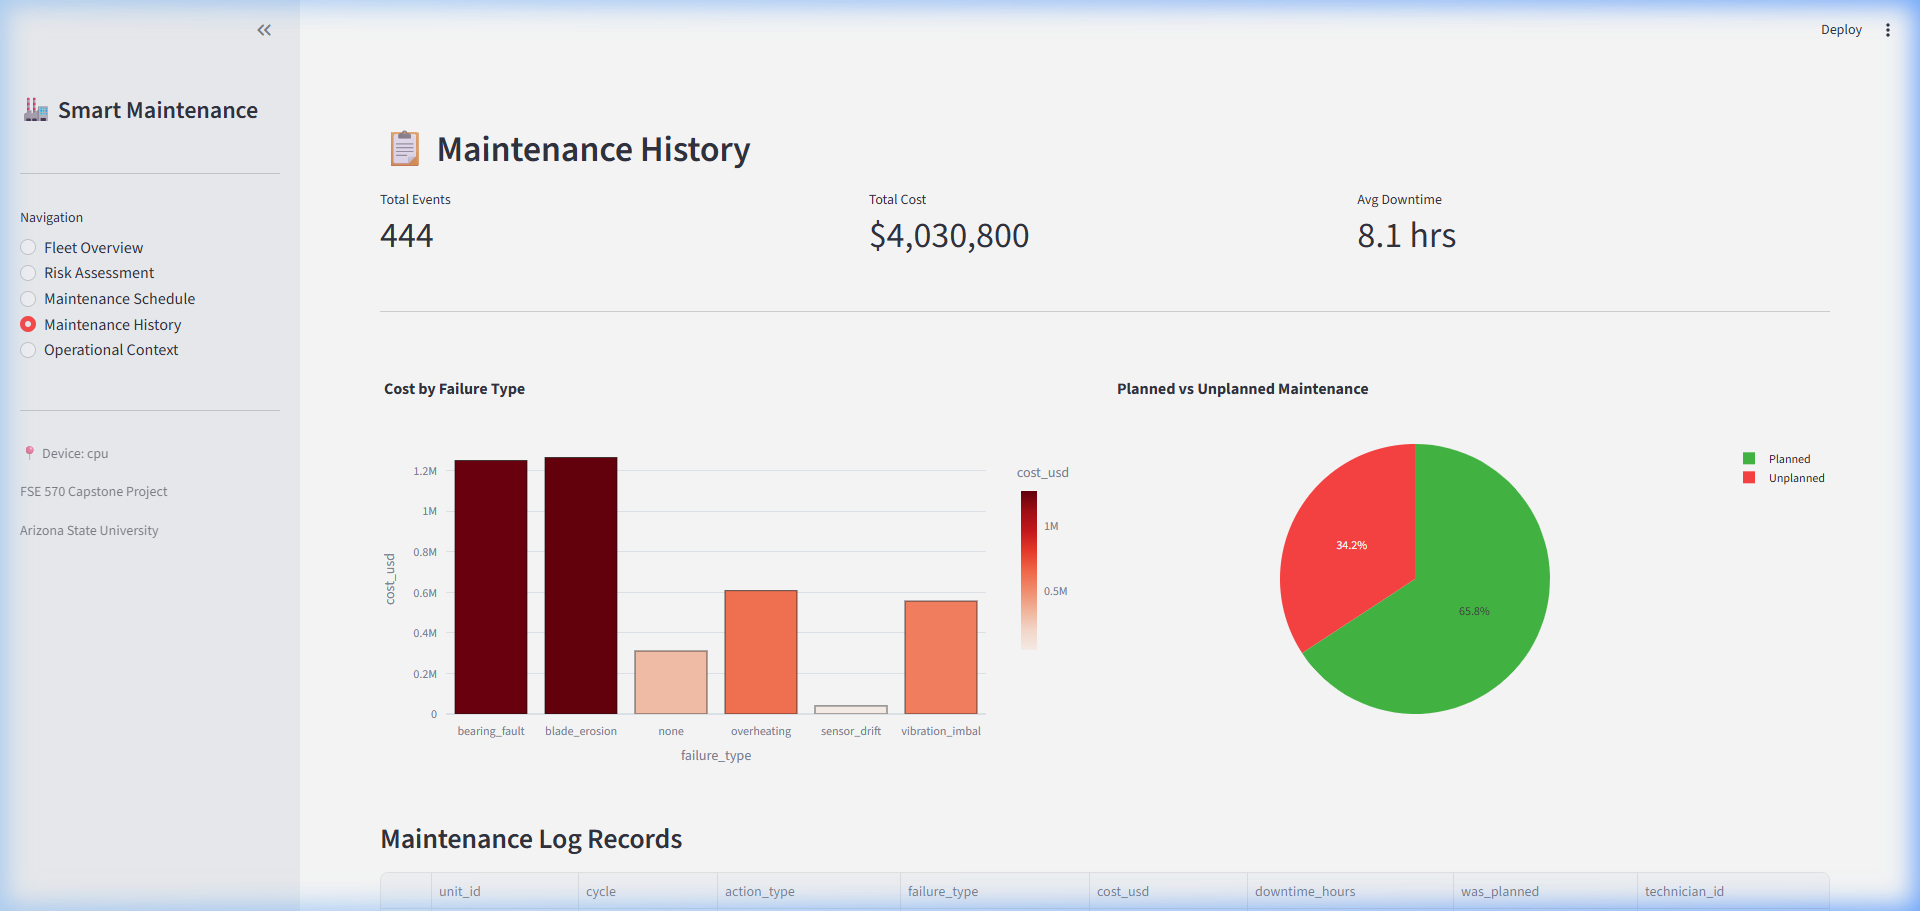
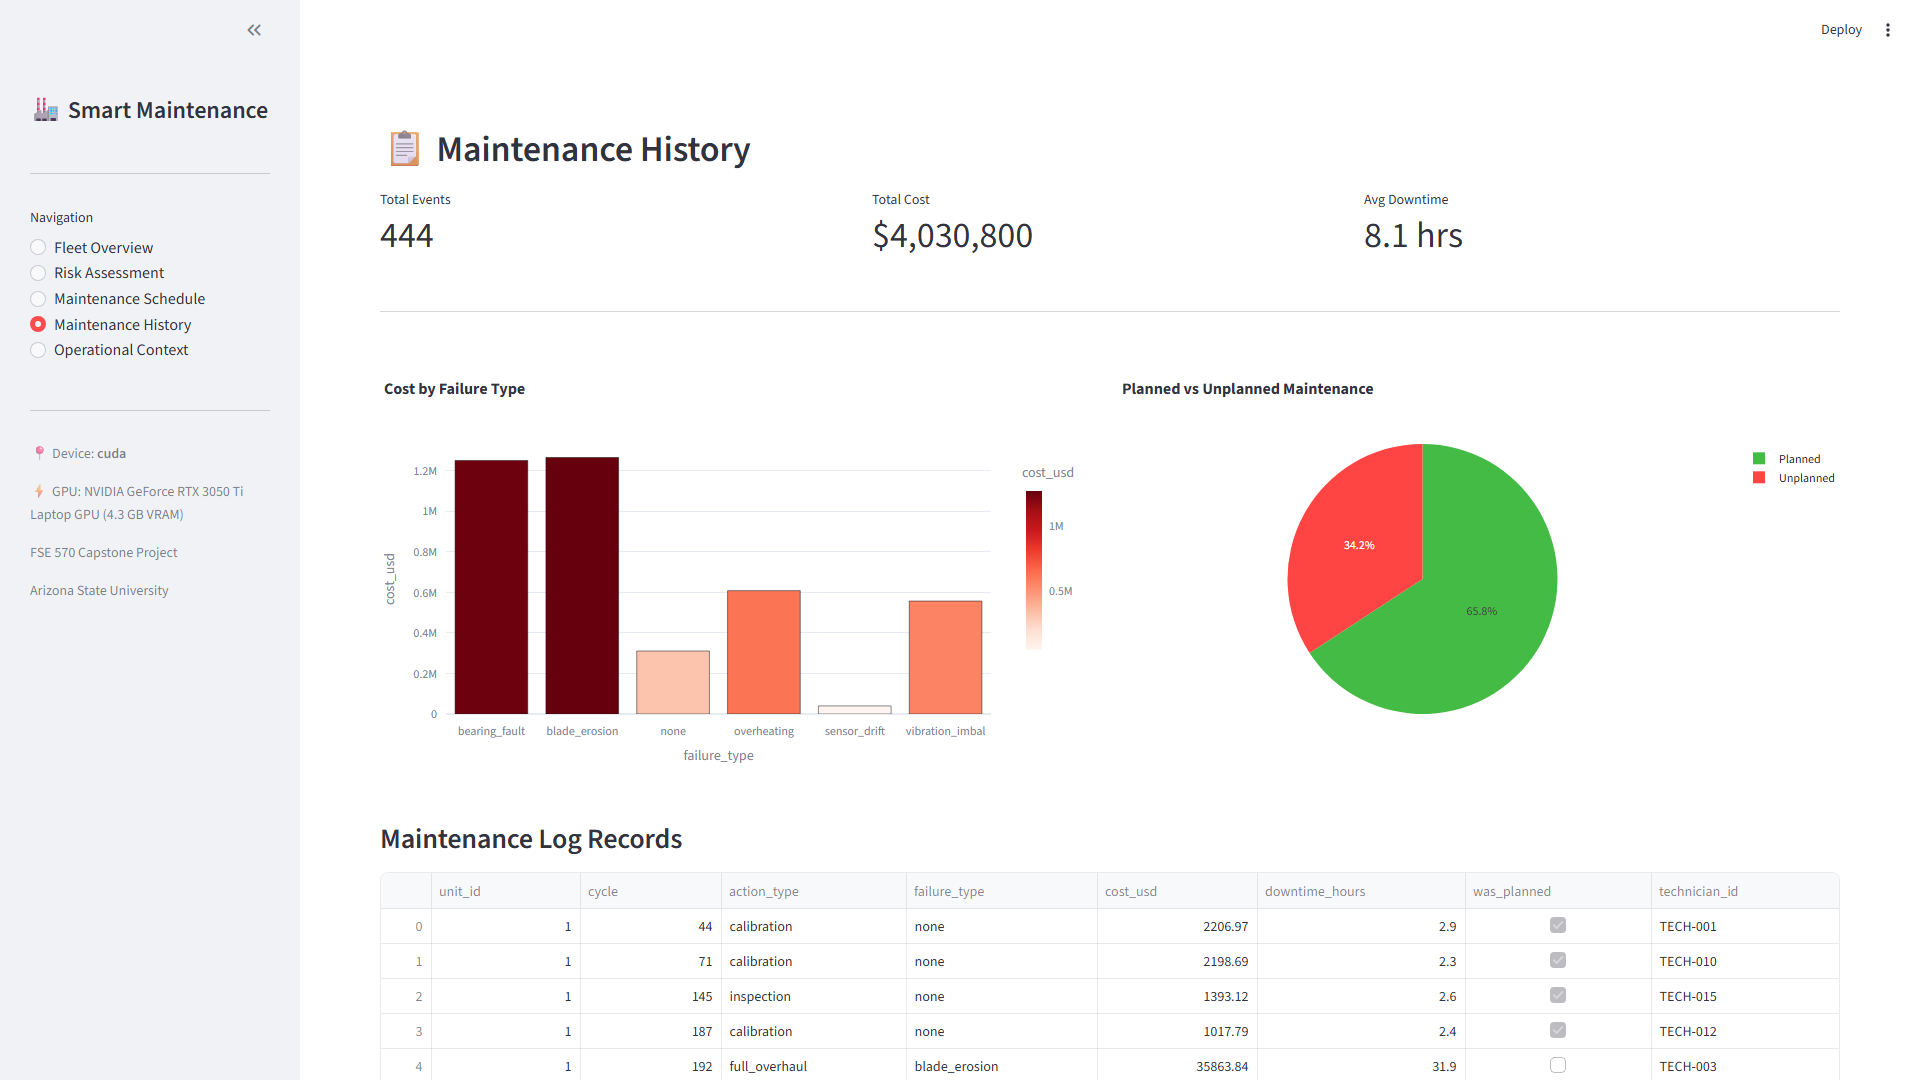
feat: Implement a Streamlit dashboard and enable CUDA for XGBoost training.

diff --git a/scripts/capture_screenshots.py b/scripts/capture_screenshots.py
@@ -1,0 +1,53 @@
+import os
+import time
+from playwright.sync_api import sync_playwright
+
+ASSETS_DIR = os.path.join(os.path.dirname(os.path.dirname(os.path.abspath(__file__))), "assets")
+os.makedirs(ASSETS_DIR, exist_ok=True)
+
+def capture_screenshots():
+    print("Starting Playwright to capture screenshots...")
+    with sync_playwright() as p:
+        browser = p.chromium.launch(headless=True, args=['--window-size=1920,1080'])
+        page = browser.new_page(viewport={'width': 1920, 'height': 1080})
+        
+        print("Navigating to http://localhost:8501...")
+        page.goto("http://localhost:8501")
+        
+        # Streamlit dashboards take a moment to load
+        print("Waiting for initial load...")
+        time.sleep(10)
+        
+        tabs = [
+            ("Fleet Overview", "dashboard_fleet_overview.png"),
+            ("Risk Assessment", "dashboard_risk_assessment.png"),
+            ("Maintenance Schedule", "dashboard_maintenance_schedule.png"),
+            ("Maintenance History", "dashboard_maintenance_history.png"),
+            ("Operational Context", "dashboard_operational_context.png"),
+        ]
+        
+        for tab_name, filename in tabs:
+            print(f"Switching to tab: {tab_name}")
+            
+            try:
+                # Streamlit renders sidebar radio items inside labels
+                page.locator(f"label:has-text('{tab_name}')").first.click()
+            except Exception as e:
+                print(f"Failed to click {tab_name} using label. Trying exact text...")
+                try:
+                    page.get_by_text(tab_name, exact=True).first.click()
+                except Exception as e2:
+                    print(f"Still failed: {e2}")
+                
+            # Wait for Streamlit to render the new page
+            time.sleep(6)
+            
+            filepath = os.path.join(ASSETS_DIR, filename)
+            page.screenshot(path=filepath, full_page=False)
+            print(f"--> Saved screenshot to {filepath}")
+            
+        browser.close()
+        print("All screenshots updated!")
+
+if __name__ == "__main__":
+    capture_screenshots()

diff --git a/dashboard/app.py b/dashboard/app.py
@@ -411,7 +411,15 @@ def main():
     )
 
     st.sidebar.markdown("---")
-    st.sidebar.caption(f"📍 Device: {config.DEVICE}")
+    import torch
+    if torch.cuda.is_available():
+        gpu_name = torch.cuda.get_device_name(0)
+        props = torch.cuda.get_device_properties(0)
+        vram = getattr(props, 'total_memory', getattr(props, 'total_mem', 0))
+        st.sidebar.caption(f"📍 Device: **{config.DEVICE}**")
+        st.sidebar.caption(f"⚡ GPU: {gpu_name} ({vram / 1e9:.1f} GB VRAM)")
+    else:
+        st.sidebar.caption(f"📍 Device: {config.DEVICE}")
     st.sidebar.caption("FSE 570 Capstone Project")
     st.sidebar.caption("Arizona State University")
 

diff --git a/check_cuda.py b/check_cuda.py
@@ -1,0 +1,10 @@
+import torch
+
+print(f"PyTorch version: {torch.__version__}")
+print(f"CUDA available: {torch.cuda.is_available()}")
+if torch.cuda.is_available():
+    print(f"CUDA version: {torch.version.cuda}")
+    print(f"cuDNN version: {torch.backends.cudnn.version()}")
+    print(f"Device name: {torch.cuda.get_device_name(0)}")
+else:
+    print("CUDA is NOT available.")

diff --git a/config.py b/config.py
@@ -108,6 +108,9 @@ XGB_PARAMS = {
     "reg_lambda": 1.0,
     "random_state": 42,
 }
+if torch.cuda.is_available():
+    XGB_PARAMS["device"] = "cuda"
+    XGB_PARAMS["tree_method"] = "hist"
 
 # =============================================================================
 # Bayesian Survival Analysis

diff --git a/README.md b/README.md
@@ -47,7 +47,7 @@ This single command does everything:
 - Trains 4 ML models (LSTM Autoencoder, LSTM Predictor, XGBoost, Bayesian Survival)
 - Runs Monte Carlo simulation comparing maintenance policies
 
-**⏱ Takes ~5 minutes on CPU.**
+**⏱ Takes ~5 minutes on CPU. Using the NVIDIA RTX 3050 Ti Laptop GPU it completes significantly faster!**
 
 ### Step 4 — Run Inference Pipeline
 

diff --git a/PROJECT_REPORT.md b/PROJECT_REPORT.md
@@ -338,7 +338,7 @@ The training pipeline (`scripts/train_all.py`) executes 9 sequential steps:
 
 *\*Approximate times on CPU (Intel Core i7). GPU training is ~5–10× faster.*
 
-**Total training time:** ~5 minutes on CPU.
+**Total training time:** ~5 minutes on CPU. Using the NVIDIA RTX 3050 Ti Laptop GPU it completes significantly faster!
 
 ### 6.3 Inference Pipeline
 
